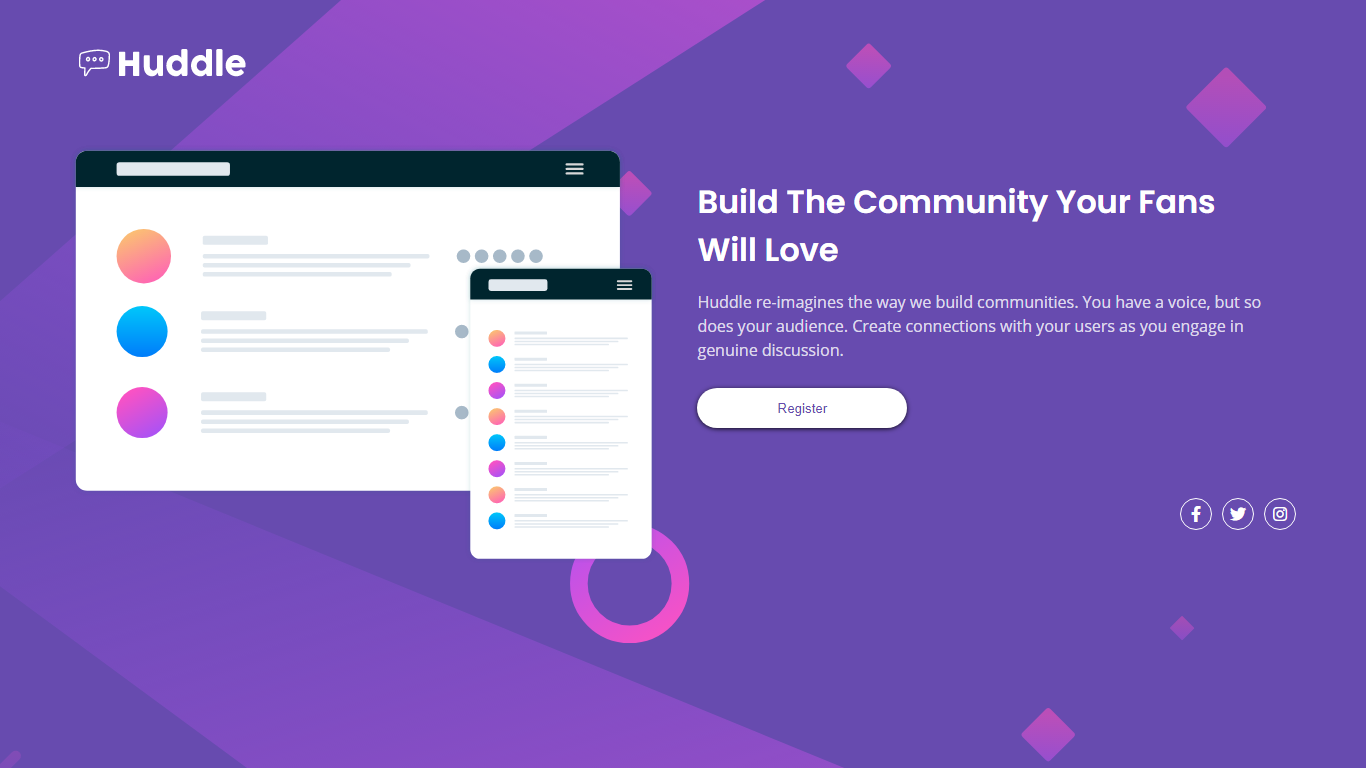
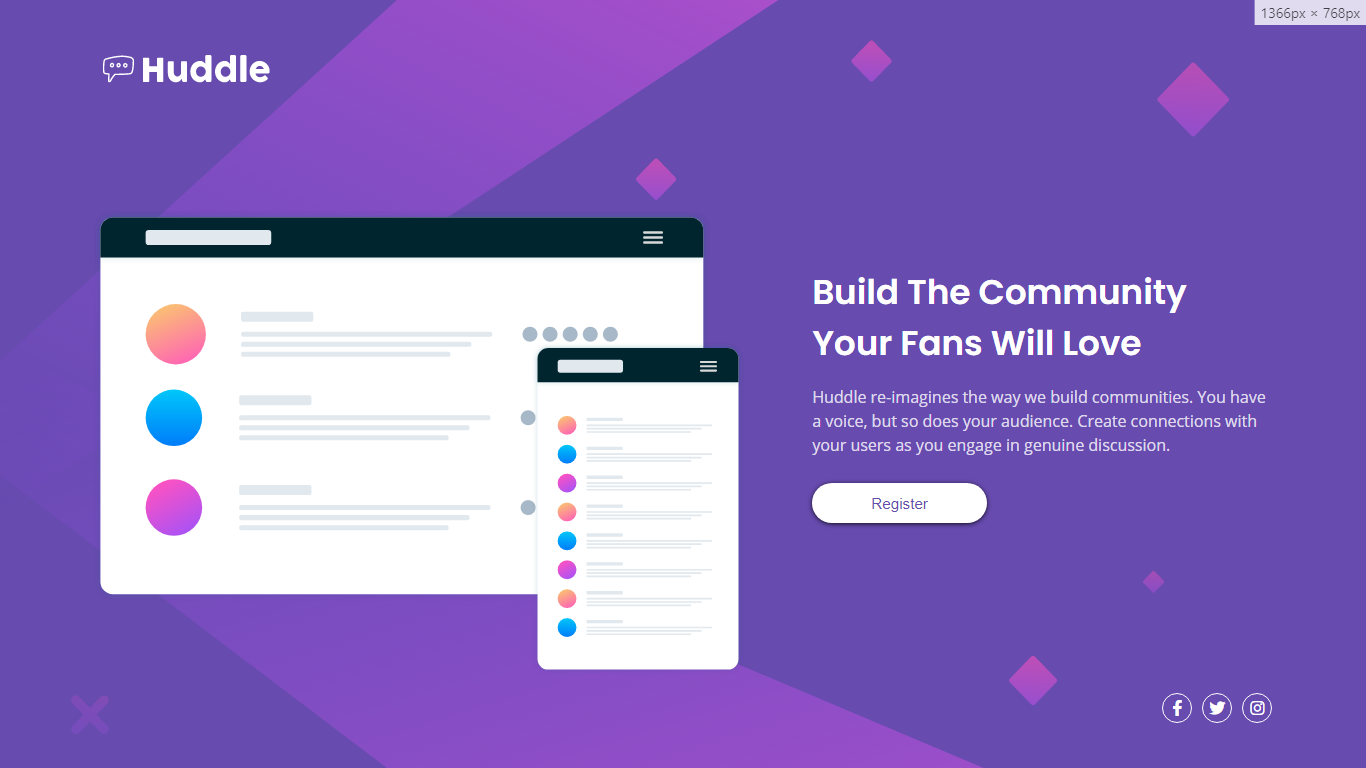
added better responsivity and spacing beetween the main componentes

diff --git a/sass/main.scss b/sass/main.scss
@@ -1,3 +1,7 @@
+/*TODO
+- ADJUST
+*/
+
 @import "variables";
 
 // MOBILE RESOLUTION
@@ -13,13 +17,15 @@ body {
 
 // LOGO
 #logo {
-  width: 7rem;
+  width: 32vw;
+  max-width: 10rem;
   align-self: flex-start;
 }
 
 // ILUSTRATION
 #illustration {
   width: 100%;
+  max-width: 650px;
 }
 
 // MAIN CONTAINER
@@ -42,6 +48,8 @@ body {
     max-width: 600px;
   }
   #Register-btn {
+    font-size: .95rem;
+    font-weight: 400;
     width: 210px;
     height: 2.5rem;
     border-radius: 20px;
@@ -99,13 +107,17 @@ footer {
 @media screen and (min-width: 768px) {
   body {
     display: grid;
-    grid-template-columns: 43vw auto;
-    row-gap: 60px; //
-    column-gap: 40px;
+    grid-template-columns: auto;
+    grid-template-rows: min-content;
+    align-items: center;
+    justify-content: center;
+    column-gap: 5vw;
+    row-gap: 2vw; //
     background-image: url(../images/bg-desktop.svg);
-    background-size: cover;
-    background-position: -100px 0px;
-    margin: 40px 70px 10px; //
+    background-size: 90vw 100%;
+    margin: 0;
+    padding: 0 3vw;
+    height: 100vh;
   }
 
   // LOGO
@@ -113,22 +125,26 @@ footer {
     width: 20vw;
     max-width: 180px;
     grid-column: 1/3;
+    padding-top: 6vh;
   }
 
   // ILUSTRATION
   #illustration {
-    width: 100%;
+    width: 50vw;
+    max-width: 650px;
   }
 
   // MAIN CONTAINER
   #main-container {
     align-items: flex-start;
     text-align: left;
+    width: 100%;
+    max-width: 460px;
+    padding-bottom: 7vw;
 
     #main-heading {
       font-family: $heading-font;
-      font-size: 2rem;
-      margin-right: 40px;
+      font-size: 2.5vw;
     }
     #main-text {
       font-size: 1rem;
@@ -138,7 +154,7 @@ footer {
       max-width: 600px;
     }
     #Register-btn {
-      width: 210px;
+      width: 175px;
       height: 2.5rem;
       border-radius: 20px;
       border: none;
@@ -153,14 +169,17 @@ footer {
         box-shadow: 0 3px 10px -1px black;
       }
       &:active {
-        width: 220px;
+        transform: translateX(5px);
+        width: 160px;
         box-shadow: 0 0px 5px -1px black;
       }
     }
     #icons-container {
       display: flex;
+      position: absolute;
       align-self: flex-end;
       column-gap: 10px;
+      bottom: 45px;
 
       .icons {
         @include centered-flex;

diff --git a/css/main.css b/css/main.css
@@ -1,5 +1,11 @@
+/*TODO
+- ADJUST
+*/
 body {
   font-family: "Open Sans", sans-serif;
+}
+
+*, *::after, *::before {
   box-sizing: border-box;
 }
 
@@ -15,12 +21,14 @@ body {
 }
 
 #logo {
-  width: 7rem;
+  width: 32vw;
+  max-width: 10rem;
   align-self: flex-start;
 }
 
 #illustration {
   width: 100%;
+  max-width: 650px;
 }
 
 #main-container {
@@ -47,6 +55,8 @@ body {
 }
 
 #main-container #Register-btn {
+  font-size: .95rem;
+  font-weight: 400;
   width: 210px;
   height: 2.5rem;
   border-radius: 20px;
@@ -105,30 +115,38 @@ footer {
 @media screen and (min-width: 768px) {
   body {
     display: grid;
-    grid-template-columns: 43vw auto;
-    row-gap: 60px;
-    column-gap: 40px;
+    grid-template-columns: auto;
+    grid-template-rows: min-content;
+    align-items: center;
+    justify-content: center;
+    column-gap: 5vw;
+    row-gap: 2vw;
     background-image: url(../images/bg-desktop.svg);
-    background-size: cover;
-    background-position: -100px 0px;
-    margin: 40px 70px 10px;
+    background-size: 90vw 100%;
+    margin: 0;
+    padding: 0 3vw;
+    height: 100vh;
   }
   #logo {
     width: 20vw;
     max-width: 180px;
     grid-column: 1/3;
+    padding-top: 6vh;
   }
   #illustration {
-    width: 100%;
+    width: 50vw;
+    max-width: 650px;
   }
   #main-container {
     align-items: flex-start;
     text-align: left;
+    width: 100%;
+    max-width: 460px;
+    padding-bottom: 7vw;
   }
   #main-container #main-heading {
     font-family: "Poppins", sans-serif;
-    font-size: 2rem;
-    margin-right: 40px;
+    font-size: 2.5vw;
   }
   #main-container #main-text {
     font-size: 1rem;
@@ -138,7 +156,7 @@ footer {
     max-width: 600px;
   }
   #main-container #Register-btn {
-    width: 210px;
+    width: 175px;
     height: 2.5rem;
     border-radius: 20px;
     border: none;
@@ -153,13 +171,16 @@ footer {
     box-shadow: 0 3px 10px -1px black;
   }
   #main-container #Register-btn:active {
-    width: 220px;
+    transform: translateX(5px);
+    width: 160px;
     box-shadow: 0 0px 5px -1px black;
   }
   #main-container #icons-container {
     display: flex;
+    position: absolute;
     align-self: flex-end;
     column-gap: 10px;
+    bottom: 45px;
   }
   #main-container #icons-container .icons {
     display: flex;

diff --git a/sass/_variables.scss b/sass/_variables.scss
@@ -13,5 +13,8 @@ $body-font: 'Open Sans', sans-serif;
 
 body {
     font-family: $body-font;
+}
+
+*, *::after, *::before {
     box-sizing: border-box;
 }
